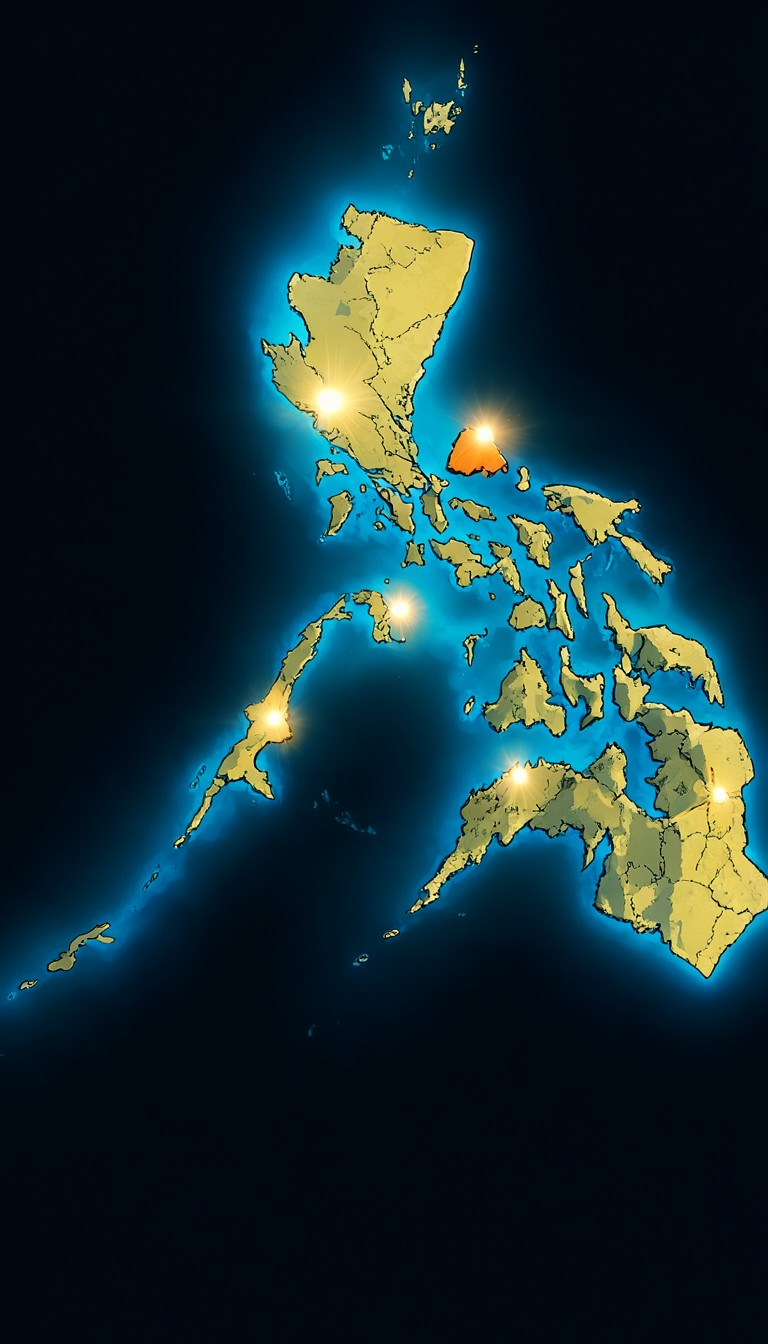
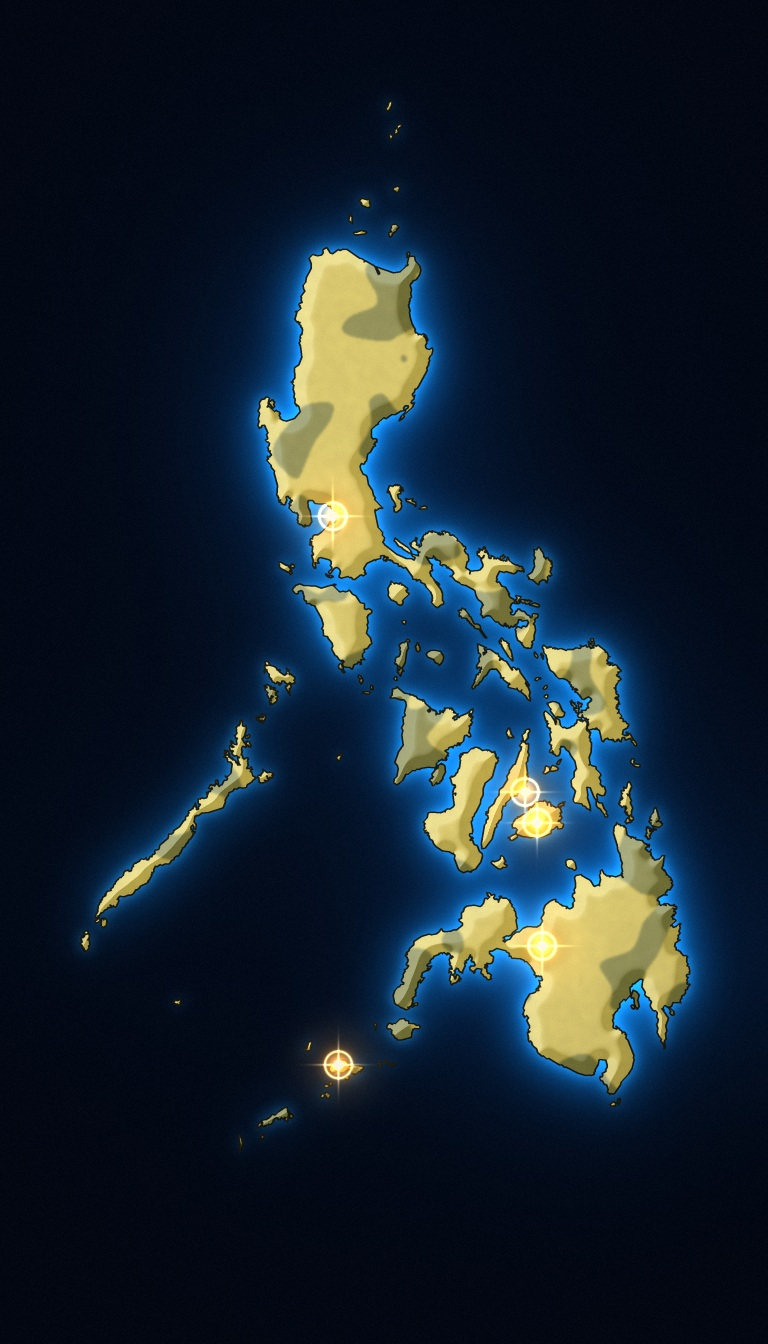
Episode 43: the five-lights map is now drawn from real coastline data (pipeline/ph_map.py): true shape of the Philippines, exactly five lights; audit entry closed
Claude-Session: https://claude.ai/code/session_014Q6YnqVXSvDjkyNQx2en9E

diff --git a/history-indio/pipeline/ph_map.py b/history-indio/pipeline/ph_map.py
@@ -1,0 +1,60 @@
+#!/usr/bin/env python3
+"""An ACCURATE glowing map of the Philippines with points of light, drawn from real coastline data instead of an image model
+(image models mangle the archipelago and cannot count lights). Made for Episode 43 (full/map_five.jpg).
+usage: ph_map.py <out.jpg> [Name:lon:lat ...]        default: the five places of Episode 43
+needs (once, outside the pipeline venv is fine):  pip install --target <dir> basemap basemap-data ; PYTHONPATH=<dir> python ph_map.py ...
+Land cut by the frame (Borneo) and Malaysian or Indonesian islands are left out. 768x1344, the look of the series' night maps."""
+import sys, math, numpy as np
+import matplotlib; matplotlib.use('Agg')
+from mpl_toolkits.basemap import Basemap
+from PIL import Image, ImageDraw, ImageFilter
+import cv2
+out = sys.argv[1]; W, H, SS = 768, 1344, 3
+m = Basemap(projection='merc', llcrnrlon=116.2, llcrnrlat=4.0, urcrnrlon=127.3, urcrnrlat=21.3, resolution='i', area_thresh=25)
+mw, mh = m.xmax, m.ymax; bw = 700.0; sc = bw / mw; bh = mh * sc; ox = (W - bw) / 2; oy = 70.0
+def XY(lon, lat): x, y = m(lon, lat); return (ox + x * sc, oy + (mh - y) * sc)
+land = Image.new('L', (W * SS, H * SS), 0); d = ImageDraw.Draw(land); polys = []
+for p in m.landpolygons:
+    c = np.asarray(p.get_coords())
+    if len(c) < 3: continue
+    if c[:, 0].min() < 2000 or c[:, 1].min() < 2000 or c[:, 0].max() > mw - 2000 or c[:, 1].max() > mh - 2000: continue      # land cut by the frame (Borneo): not the Philippines
+    lon, lat = m(c[:, 0].mean(), c[:, 1].mean(), inverse=True)
+    if (lon < 118.0 and lat < 7.6) or (lon < 119.2 and lat < 6.6) or (lon > 125.9 and lat < 5.0): continue                   # Malaysian and Indonesian islands
+    pts = [((ox + x * sc) * SS, (oy + (mh - y) * sc) * SS) for x, y in c]
+    d.polygon(pts, fill=255); polys.append(pts)
+ink = Image.new('L', (W * SS, H * SS), 0); di = ImageDraw.Draw(ink)
+for pts in polys: di.line(pts + [pts[0]], fill=255, width=int(1.7 * SS), joint='curve')
+land = np.asarray(land.resize((W, H), Image.LANCZOS)).astype(np.float32) / 255; ink = np.asarray(ink.resize((W, H), Image.LANCZOS)).astype(np.float32) / 255
+rng = np.random.default_rng(43); Y, X = np.mgrid[0:H, 0:W].astype(np.float32)
+# the dark, with a faint blue lift behind the islands
+bg = np.zeros((H, W, 3), np.float32); bg[...] = (3, 9, 22)
+lift = cv2.GaussianBlur(land, (0, 0), 90); bg += lift[..., None] * np.array((4, 40, 78), np.float32) * 1.6
+glow = cv2.GaussianBlur(land, (0, 0), 26); rim = cv2.GaussianBlur(land, (0, 0), 7)
+img = bg + glow[..., None] * np.array((10, 120, 205), np.float32) * 1.15 + rim[..., None] * np.array((40, 150, 230), np.float32) * 0.75
+# land: two-tone cel fill in old gold, light from the upper left, a few painted patches
+n1 = cv2.GaussianBlur(rng.normal(0, 1, (H, W)).astype(np.float32), (0, 0), 16); n1 /= np.abs(n1).max()
+n2 = cv2.GaussianBlur(rng.normal(0, 1, (H, W)).astype(np.float32), (0, 0), 3); n2 /= np.abs(n2).max()
+edge = cv2.GaussianBlur(land, (0, 0), 5); gx = cv2.Sobel(edge, cv2.CV_32F, 1, 0, ksize=5); gy = cv2.Sobel(edge, cv2.CV_32F, 0, 1, ksize=5)
+lit = np.clip((gx + gy) * 1.4, -1, 1)                                   # + on shores facing the upper left
+tone = (n1 > 0.18).astype(np.float32); tone = cv2.GaussianBlur(tone, (0, 0), 1.2)
+light, dark, hi = np.array((218, 200, 112), np.float32), np.array((150, 148, 92), np.float32), np.array((238, 226, 150), np.float32)
+fill = light[None, None] * (1 - tone[..., None]) + dark[None, None] * tone[..., None]
+fill = fill * (1 + 0.05 * n2[..., None]) + np.clip(lit, 0, 1)[..., None] * (hi - light)[None, None] * 0.9 - np.clip(-lit, 0, 1)[..., None] * 38
+img = img * (1 - land[..., None]) + fill * land[..., None]
+img = img * (1 - 0.92 * ink[..., None]) + np.array((18, 16, 8), np.float32) * 0.92 * ink[..., None]
+# five lights
+P = [('Manila Bay', 120.93, 14.58), ('Mactan', 123.98, 10.31), ('Bohol', 124.17, 9.83), ('Lake Lanao', 124.25, 7.90), ('Sulu', 121.02, 6.03)]
+if len(sys.argv) > 2: P = [(n, float(lo), float(la)) for n, lo, la in (x.split(':') for x in sys.argv[2:])]
+for name, lon, lat in P:
+    x, y = XY(lon, lat); D = np.hypot(X - x, Y - y)
+    halo = np.exp(-(D / 12.0) ** 2) * 1.0 + np.exp(-(D / 34.0) ** 2) * 0.2; core = np.clip(1 - (D - 4.2) / 2.0, 0, 1)
+    ring = np.exp(-((D - 13.5) / 1.3) ** 2) * 0.85
+    fl = np.exp(-(np.abs(Y - y) / 1.1) ** 2) * np.exp(-(np.abs(X - x) / 20.0) ** 2) + np.exp(-(np.abs(X - x) / 1.1) ** 2) * np.exp(-(np.abs(Y - y) / 20.0) ** 2)
+    shade = np.exp(-(D / 20.0) ** 2) * 0.45; img = img * (1 - shade[..., None])                       # the land dims a little under each light so the light reads on the gold
+    img += halo[..., None] * np.array((255, 150, 40), np.float32) * 1.05 + fl[..., None] * np.array((255, 225, 160), np.float32) * 0.8 + ring[..., None] * np.array((255, 215, 140), np.float32)
+    img = img * (1 - core[..., None]) + np.array((255, 250, 228), np.float32) * core[..., None]
+    print('%-11s at %.0f, %.0f' % (name, x, y))
+# vignette and a little grain, like the painted stills
+v = 1 - 0.35 * np.clip((np.hypot((X - W / 2) / (W * 0.75), (Y - H * 0.42) / (H * 0.62)) - 0.55), 0, 1)
+img = img * v[..., None] + rng.normal(0, 1.6, (H, W, 1)).astype(np.float32)
+Image.fromarray(np.clip(img, 0, 255).astype(np.uint8)).save(out, quality=94); print('saved', out)
